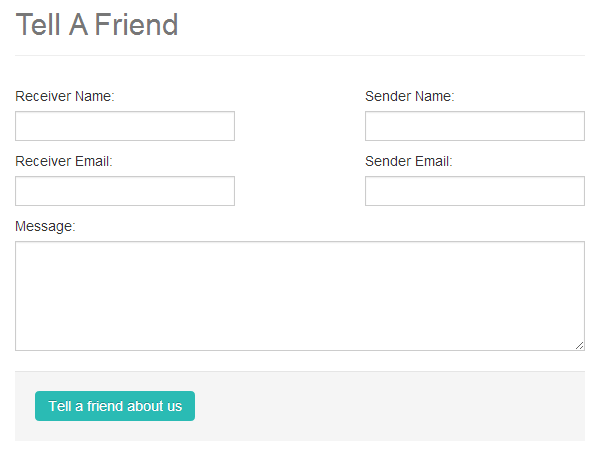
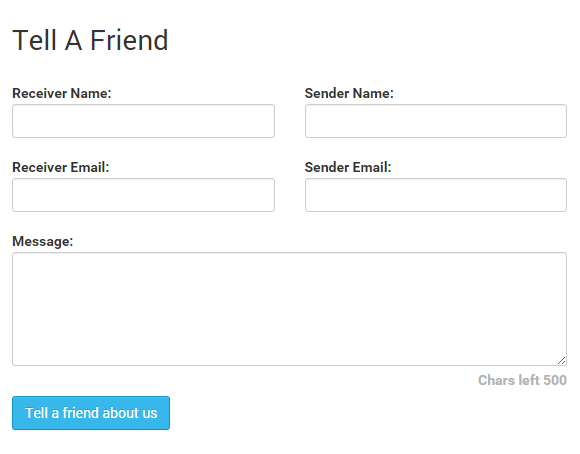
Updated for 4.0 version.

diff --git a/templates/front/css/style.css b/templates/front/css/style.css
@@ -1,0 +1,11 @@
+/* Tell a friend page */
+
+.tell-a-friend label {
+	width: 100%;
+}
+
+.tell-a-friend label > input,
+.tell-a-friend label > textarea,
+.tell-a-friend label > select {
+	font-weight: normal;
+}
